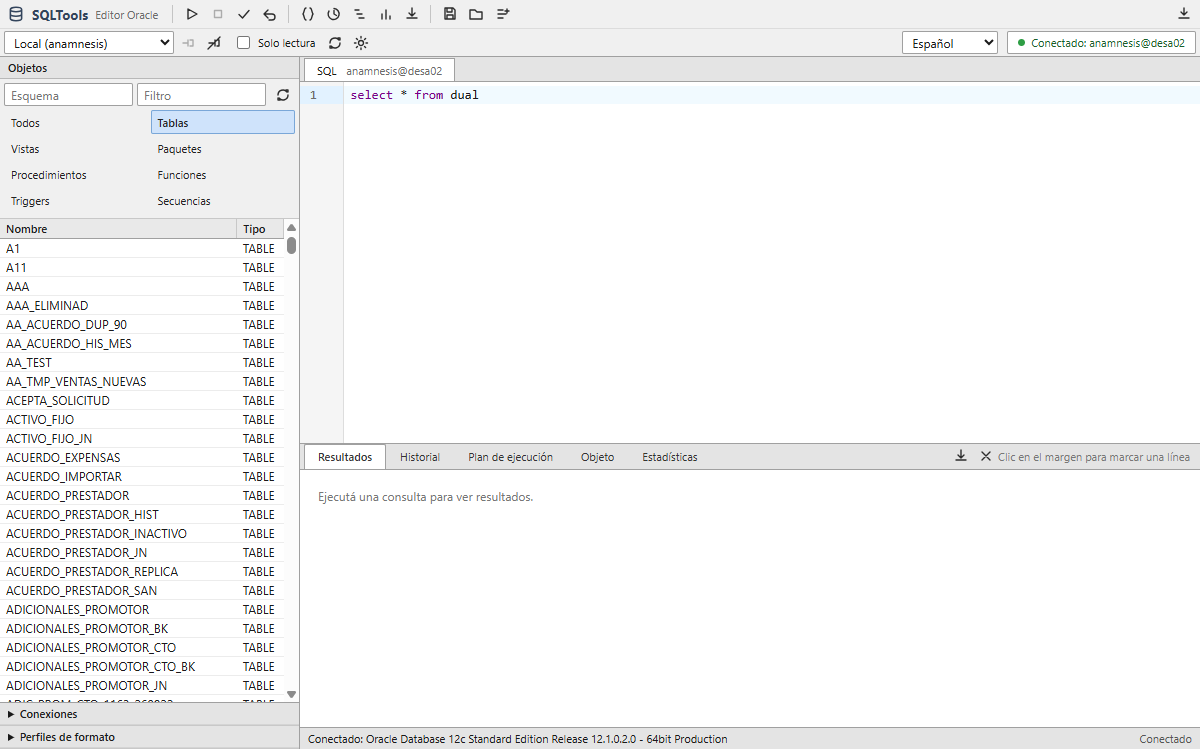
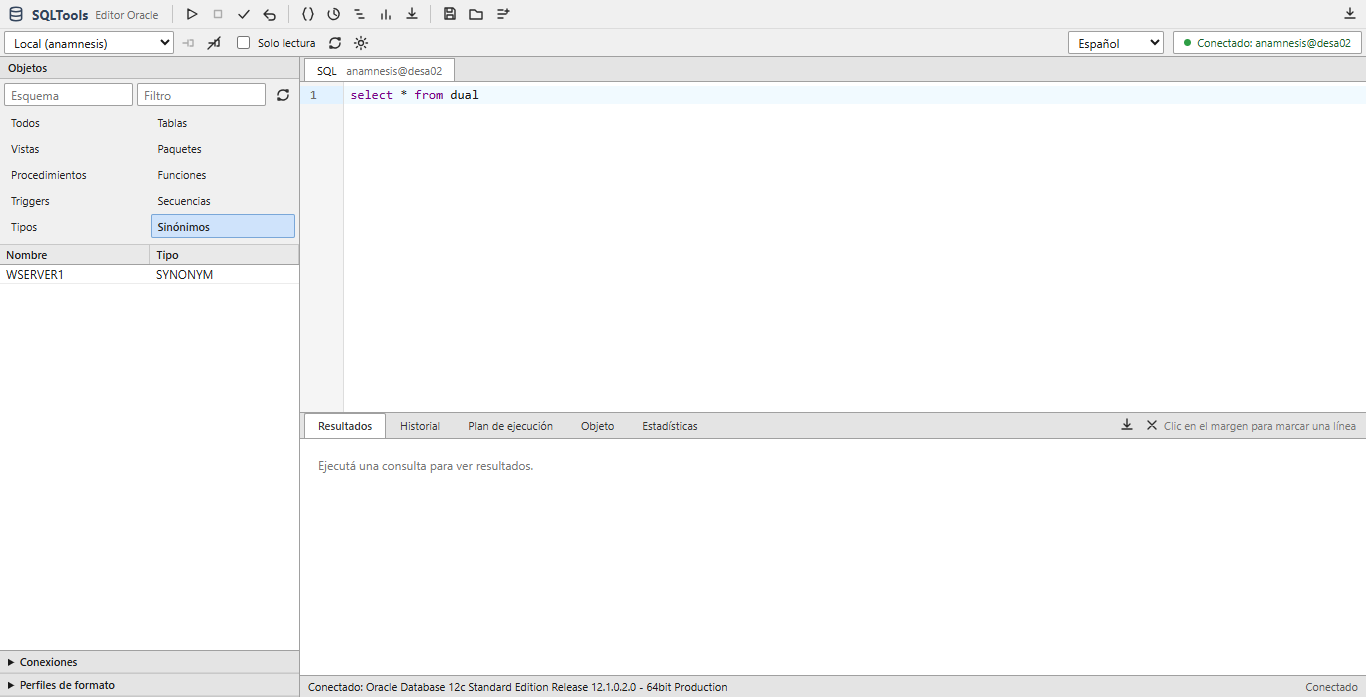
feat(ui): add type and synonym object filters

Changed region(s): [[0.0, 0.0, 1.0, 1.0], [0.7708, 0.6026, 1.0, 0.6327], [0.925, 0.9641, 1.0, 0.9943]]

diff --git a/rust/web/src/i18n.tsx b/rust/web/src/i18n.tsx
@@ -71,6 +71,8 @@ const translations = {
     typeFunction: "Funciones",
     typeTrigger: "Triggers",
     typeSequence: "Secuencias",
+    typeType: "Tipos",
+    typeSynonym: "Sinónimos",
     noResults: "Ejecutá una consulta para ver resultados.",
     constraints: "Restricciones",
     indexes: "Índices",
@@ -163,6 +165,8 @@ const translations = {
     typeFunction: "Functions",
     typeTrigger: "Triggers",
     typeSequence: "Sequences",
+    typeType: "Types",
+    typeSynonym: "Synonyms",
     noResults: "Run a query to see results.",
     constraints: "Constraints",
     indexes: "Indexes",

diff --git a/rust/web/src/App.tsx b/rust/web/src/App.tsx
@@ -49,6 +49,8 @@ const objectTypes = [
   { value: "FUNCTION", key: "typeFunction" },
   { value: "TRIGGER", key: "typeTrigger" },
   { value: "SEQUENCE", key: "typeSequence" },
+  { value: "TYPE", key: "typeType" },
+  { value: "SYNONYM", key: "typeSynonym" },
 ] as const;
 
 const ROW_HEIGHT = 24;
